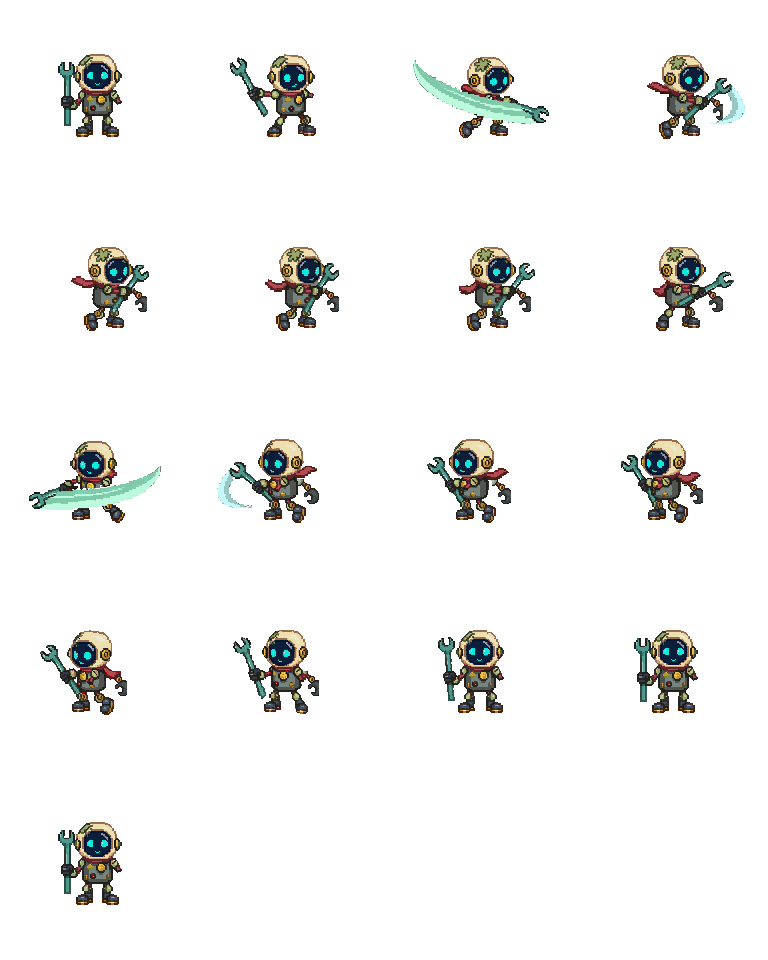
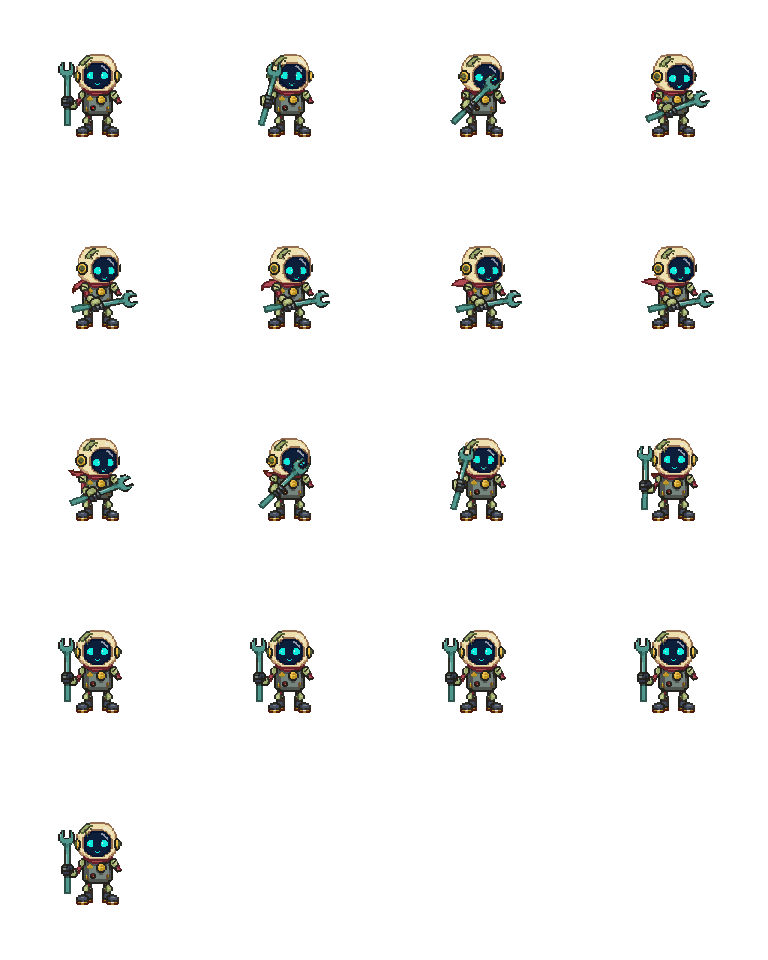
Regenerate four wrench blows (south 1 and 2, east 2, south-west 1): arms stay on, the east face holds
Claude-Session: https://claude.ai/code/session_013zTJ8zeUY4Et2JZtzqmSzm

diff --git a/README.md b/README.md
@@ -87,6 +87,8 @@ test/                                 자동 테스트
 새 항목은 위에 추가합니다.
 
 ### 2026-11-03
+- 공격 모션 재생성(PixelLab): 1타·2타 남쪽(중간에 왼팔이 떨어져 보이던 문제), 2타 동쪽(얼굴이 이상하던 문제), 1타 남서쪽(왼팔이 사라지던 문제).
+- 렌치 베기 이펙트 얇은 버전 시안 페이지를 만들었습니다: concepts/slash.html (실제 속도 반복 재생 포함).
 - 보스 공격 효과음 확정: 로코 집게(철컥)·자석(낮은 종 웅)·흡입(짧은 휙)·과충전(금속판 쾅)·딱지(카드 착)·크레인(나무 상자 쿵), 브라스 지휘봉(칼집 스르륵)·행진(북 둥)·발구르기(묵직한 쿵)·나팔 파동(색소폰 빰)·돌진(색소폰 빠라밤)·병정 대열(나무 발소리)·카펫(천 펄럭). 후보 파일은 지우고 효과음 목록 E 그룹에 넣었습니다.
 - 보스 공격 효과음: 로코 6개(집게·자석·흡입·과충전·딱지·크레인), 브라스 7개(지휘봉·행진·발구르기·나팔 파동·나팔 돌진·병정 대열·카펫) 공격마다 소리를 넣었습니다. 패턴마다 녹음 후보 2개를 만들어 효과음 목록 페이지 맨 위(H1·H2)에 올렸고, 게임에는 1번 후보가 들어 있습니다.
 - 보스 맵도 들어오는 방향을 맞췄습니다: 로코 맵은 위쪽에서(로코와 13칸 이상 떨어진 곳), 브라스 광장은 남서쪽 아치 계단을 지나 아래쪽에서 걸어 들어옵니다.
